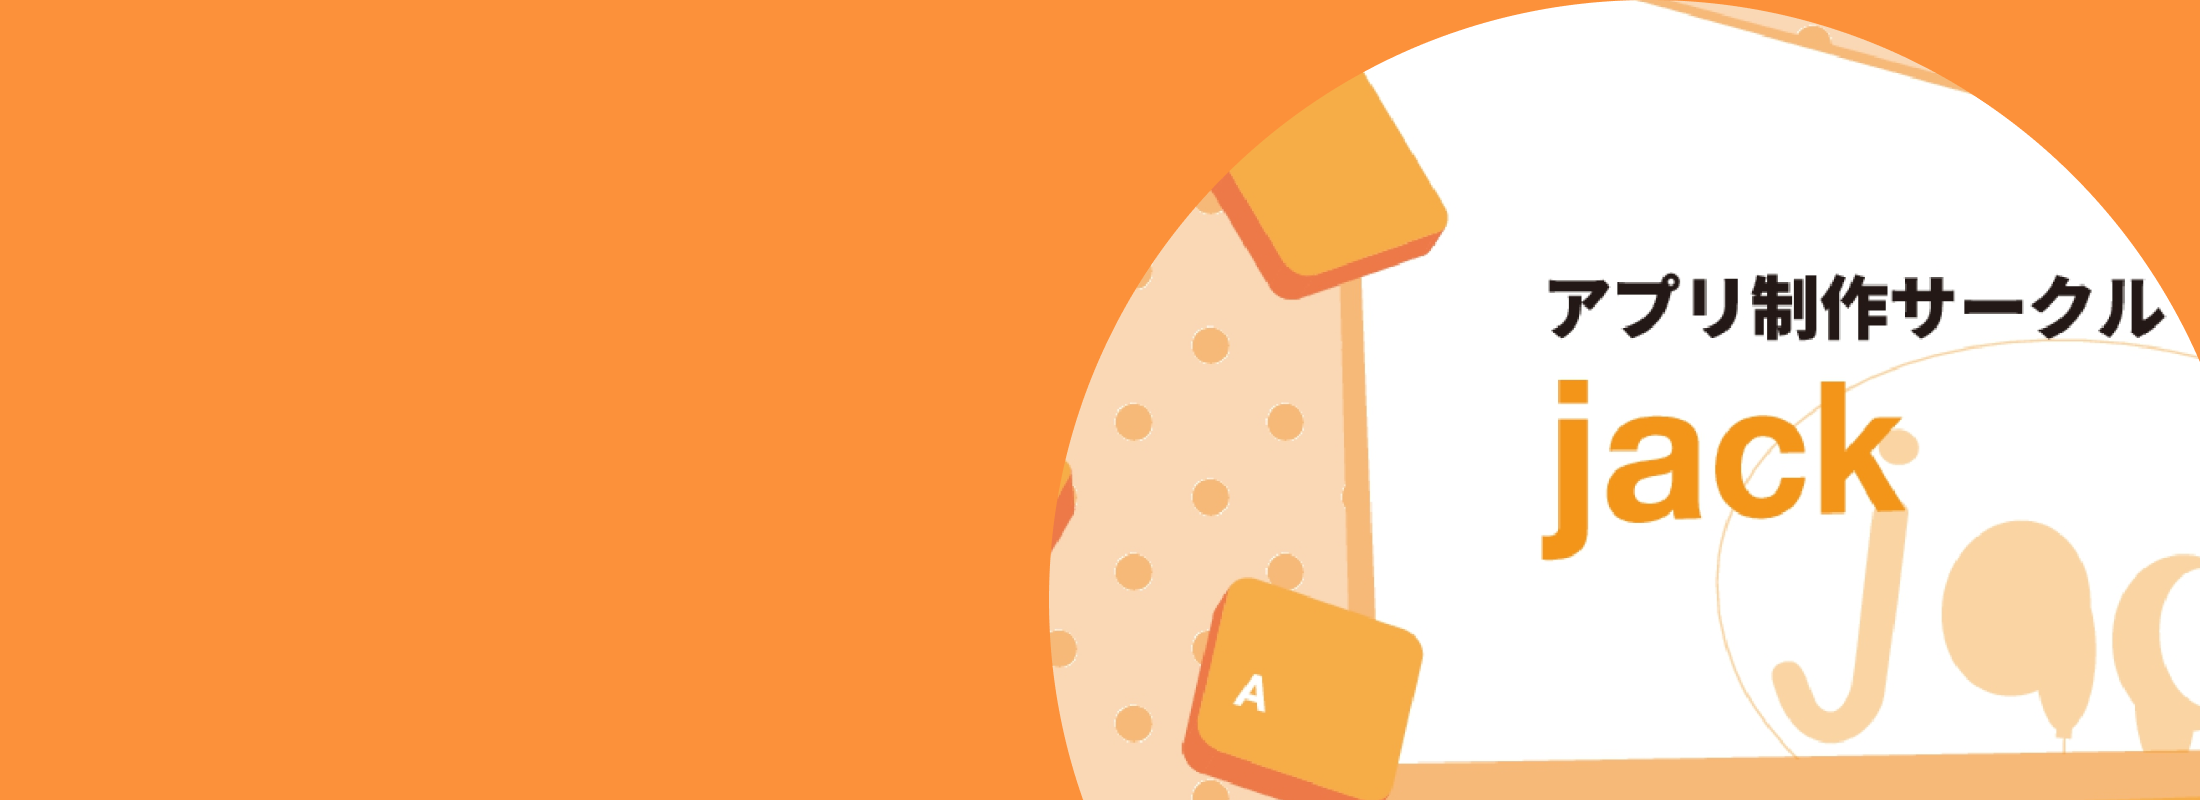
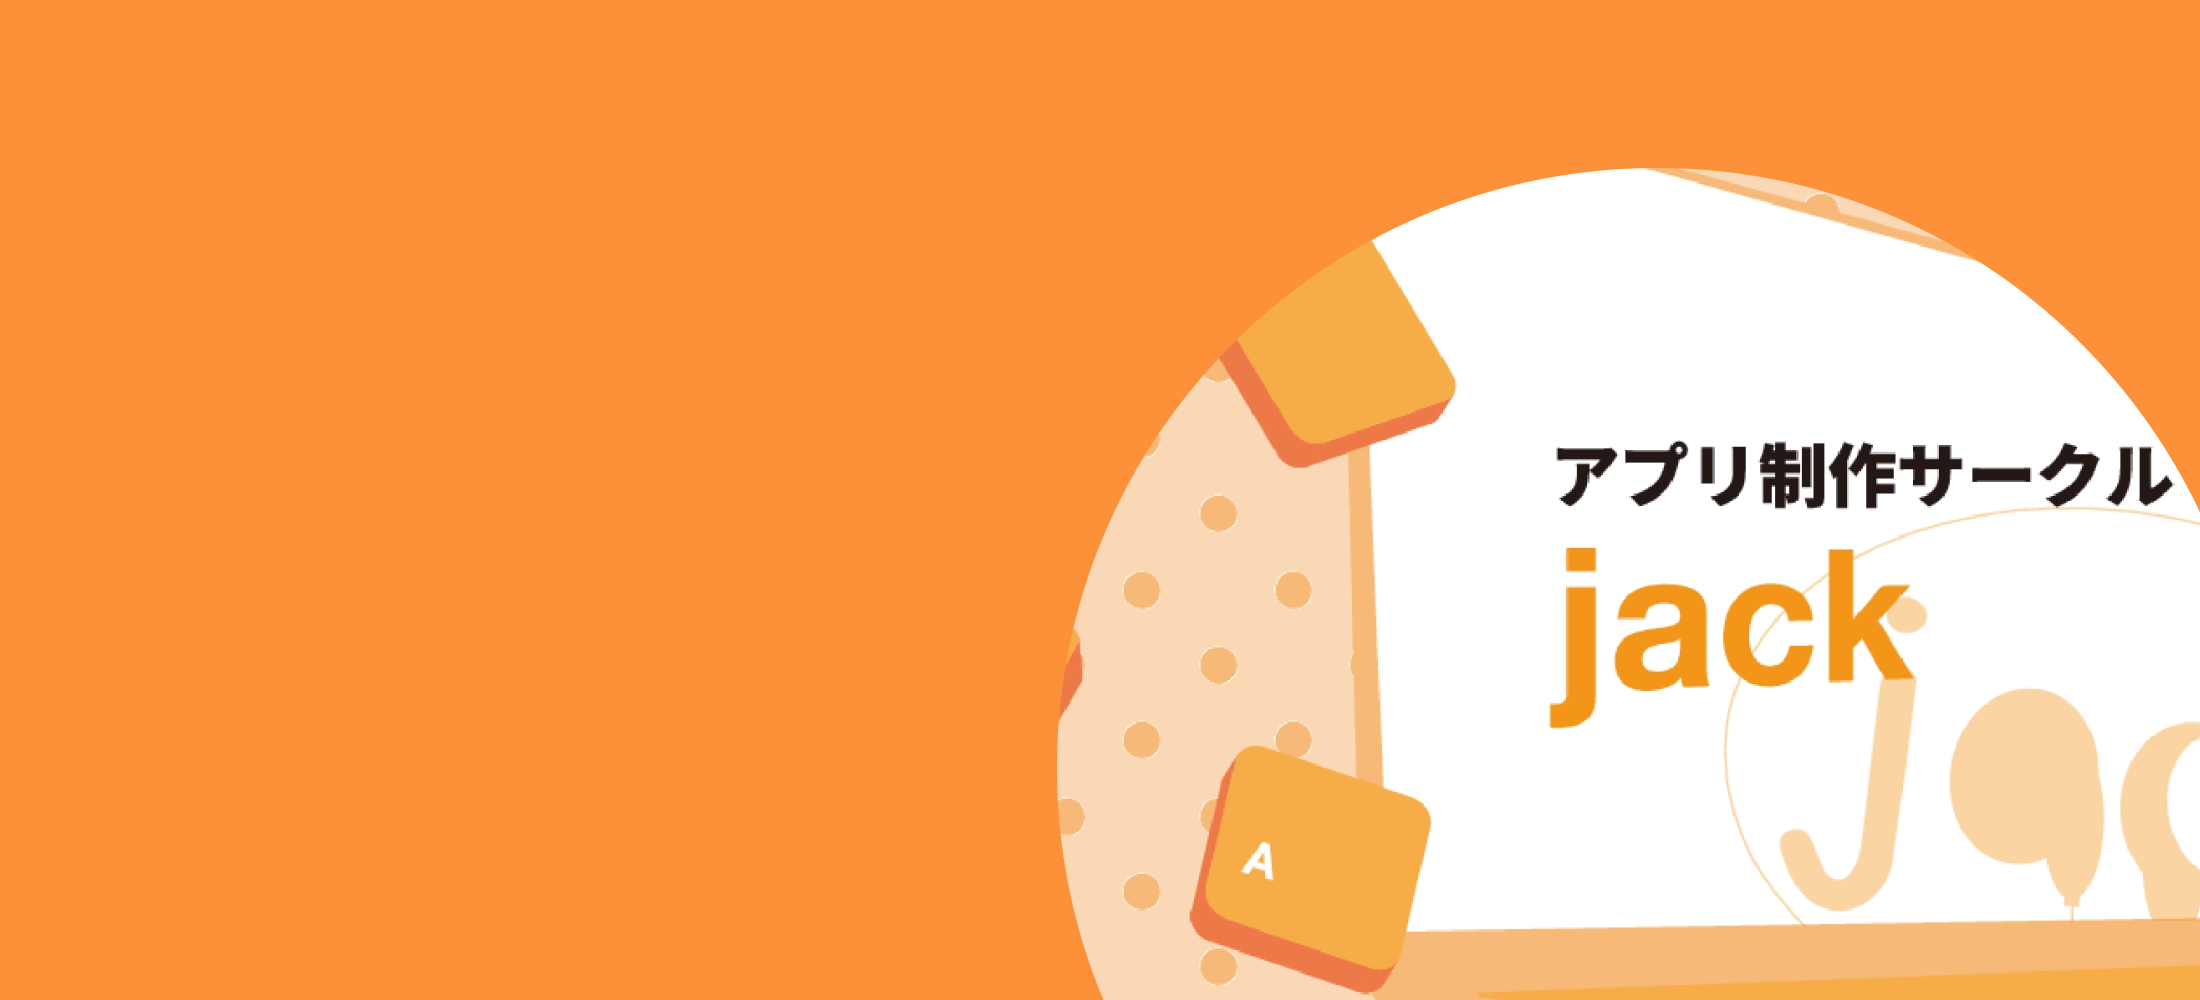
fix top

Changed region(s): [[0.4636, 0.0, 1.0, 1.0]]

diff --git a/src/App.vue b/src/App.vue
@@ -2,9 +2,7 @@
   <v-app>
     <Menubar />
     <v-main>
-         <div class="top">
-          <h1 align="left">jackは <br>名古屋の <br>アプリ・ゲーム開発サークルです！</h1>
-        </div>
+      <Top />
       <v-container>
         <div class="content" id="can">
           <div class="display-1" >jackでできること</div>
@@ -27,7 +25,7 @@
           <Calendar />
         </div>
         <div class="content" id="welcometour">
-          <div class="display-1">見学したい方</div>
+          <div class="display-1">新歓2021</div>
           <WelcomeTour />
         </div>
         <div class="content" id = "FAQ">
@@ -42,6 +40,7 @@
 </template>
 
 <script>
+import Top from './components/Top.vue'
 import Products from './components/Products.vue';
 import Calendar from './components/Calendar.vue';
 import DekirukotoCards from './components/DekirukotoCards.vue';
@@ -54,6 +53,7 @@ export default {
   name: 'App',
 
   components: {
+    Top,
     Menubar,
     DekirukotoCards,
     ActivityIntroduction,
@@ -80,23 +80,6 @@ export default {
   background-repeat: repeat;
 }
 
-.top {
-  position: relative;
-  height: 70vh;
-  width: 100vw;
-  margin-top: 5%;
-  background: cover;
-  background-image: url("/jack-web_top.png");
-  background-size: contain;
-}
-
-h1 {
-  color: #fff;
-  font-size: 48px;
-  line-height: 100px;
-  padding-left: 80px;
-  padding-top: 20px;
-}
 
 
 

diff --git a/src/components/ActivityIntroduction.vue b/src/components/ActivityIntroduction.vue
@@ -1,7 +1,7 @@
 <template>
  <v-container>
    <v-row align="center">
-     <v-col cols="12" md="5">
+     <v-col cols="12" md="6">
        <div class="flexitem item1">
           <div class="headline" align="left">通常活動</div>
               <div class="body-1" align="left">
@@ -10,19 +10,19 @@
               </div>
         </div>
      </v-col>
-     <v-col cols="12" md="7">
+     <v-col cols="12" md="6">
        <div class="flexitem item2">
-         <v-img max-height="300" max-width="480" src="@/assets/activity.png"></v-img>
+         <v-img src="@/assets/activity.png"></v-img>
        </div>
      </v-col>
    </v-row>
    <v-row align="center">
-     <v-col cols="12" md="7" order="last" order-md="first">
+     <v-col cols="12" md="6" order="last" order-md="first">
        <div class="flexitem item3">
-         <v-img max-height="300" max-width="480" src="@/assets/event.png"></v-img>
+         <v-img src="@/assets/event.png"></v-img>
        </div>
      </v-col>
-     <v-col cols="12" md="5"  order="first" order-md="last">
+     <v-col cols="12" md="6"  order="first" order-md="last">
        <div class="flexitem item4">
          <div class="headline" align="left">イベント</div>
             <div class="body-1" align="left">

diff --git a/src/components/Top.vue b/src/components/Top.vue
@@ -1,0 +1,77 @@
+<template>
+  <div class="top">
+    <v-img
+     src="@/assets/jack-web_top.png"
+     contain
+     >
+       <div class="toptext">
+         <h1 align="left">jackは</h1>
+         <h1 align="left">名古屋の</h1>
+         <h1 align="left">アプリ・ゲーム</h1>
+         <h1 align="left">開発サークルです！</h1>
+      </div>
+    </v-img>
+  </div>
+</template>
+
+<style>
+.top {
+  margin-top: 0;
+  padding-top: 0;
+  width: 100%;
+}
+.toptext{
+  padding-top: 56px;
+}
+
+h1 {
+  color: #fff;
+  font-size: 48px;
+  line-height: 84px;
+  padding-left: 3%;
+}
+
+@media screen and (max-width: 800px) {
+  h1 {
+    font-size: 36px;
+    line-height: 60px;
+  }
+}
+
+
+@media screen and (max-width: 640px) {
+  h1 {
+    font-size: 32px;
+    line-height: 48px;
+  }
+}
+
+@media screen and (max-width: 500px) {
+  h1 {
+    font-size: 24px;
+    line-height: 36px;
+  }
+}
+
+@media screen and (max-width: 440px) {
+  h1 {
+    font-size: 20px;
+    line-height: 28px;
+  }
+}
+@media screen and (max-width: 360px) {
+  h1 {
+    font-size: 16px;
+    line-height: 24px;
+  }
+}
+@media screen and (max-width: 320px) {
+  h1 {
+    font-size: 14px;
+    line-height: 20px;
+  }
+}
+
+
+
+</style>

diff --git a/src/components/Menubar.vue b/src/components/Menubar.vue
@@ -1,5 +1,5 @@
 <template>
-  <div>
+  <header>
     <v-app-bar
       clipped-right
       color="#FC913A"
@@ -39,7 +39,7 @@
         </v-list-item-group>
       </v-list>
     </v-navigation-drawer>
-  </div>
+  </header>
 </template>
 
 <script>
@@ -61,7 +61,7 @@ export default {
         name:"活動予定"
       },{
         id:'#welcometour',
-        name:"見学したい方"
+        name:"新歓2021"
       },{
         id:'#FAQ',
         name:"よくある質問"

diff --git a/src/components/Top2.vue b/src/components/Top2.vue
@@ -1,0 +1,25 @@
+<template>
+  <div class="top">
+   <h1 align="left">jackは <br>名古屋の <br>アプリ・ゲーム開発サークルです！</h1>
+ </div>
+</template>
+
+<style>
+.top {
+  position: relative;
+  width: 100vw;
+  margin-top: 5%;
+  background: cover;
+  background-image: url("/jack-web_top.png");
+  background-size: cover;
+}
+
+h1 {
+  color: #fff;
+  font-size: 48px;
+  line-height: 100px;
+  padding-left: 80px;
+  padding-top: 20px;
+}
+
+</style>

diff --git a/src/components/WelcomeTour.vue b/src/components/WelcomeTour.vue
@@ -14,7 +14,6 @@
         <div class="body-1 text">
           <ul>
             <li>4/3(土) 15:00~16:00</li>
-            <li>4/6(火) 15:00~16:00</li>
             <li>4/8(木) 15:00~16:00</li>
             <li>4/10(土) 21:00~22:00（夜の部）</li>
             <li>4/18(日) 15:00~16:00</li>
